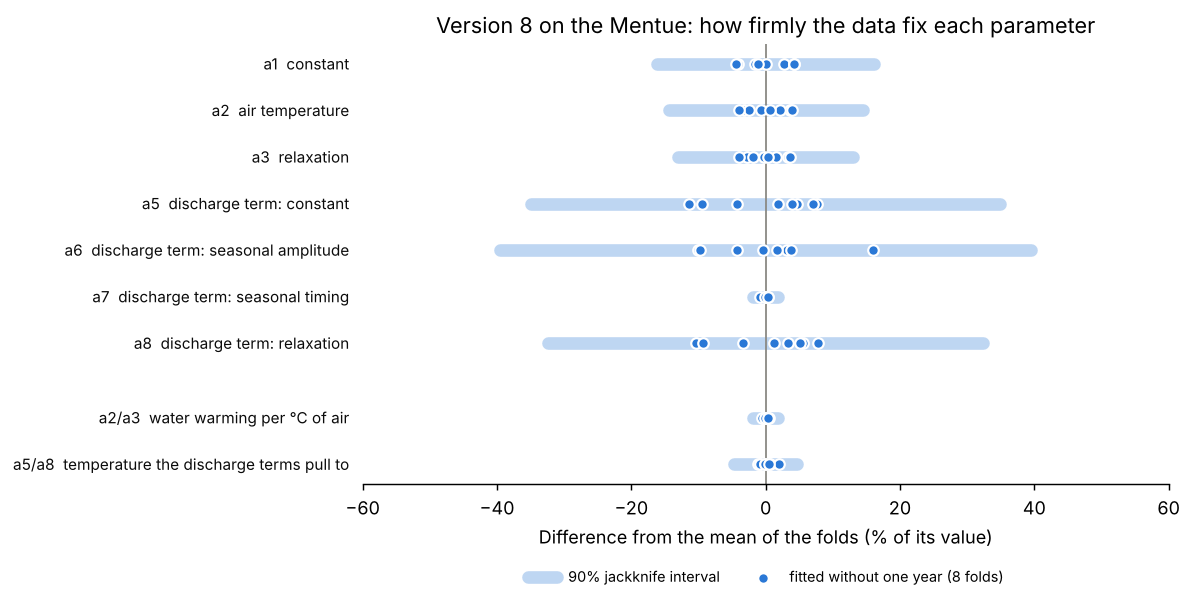
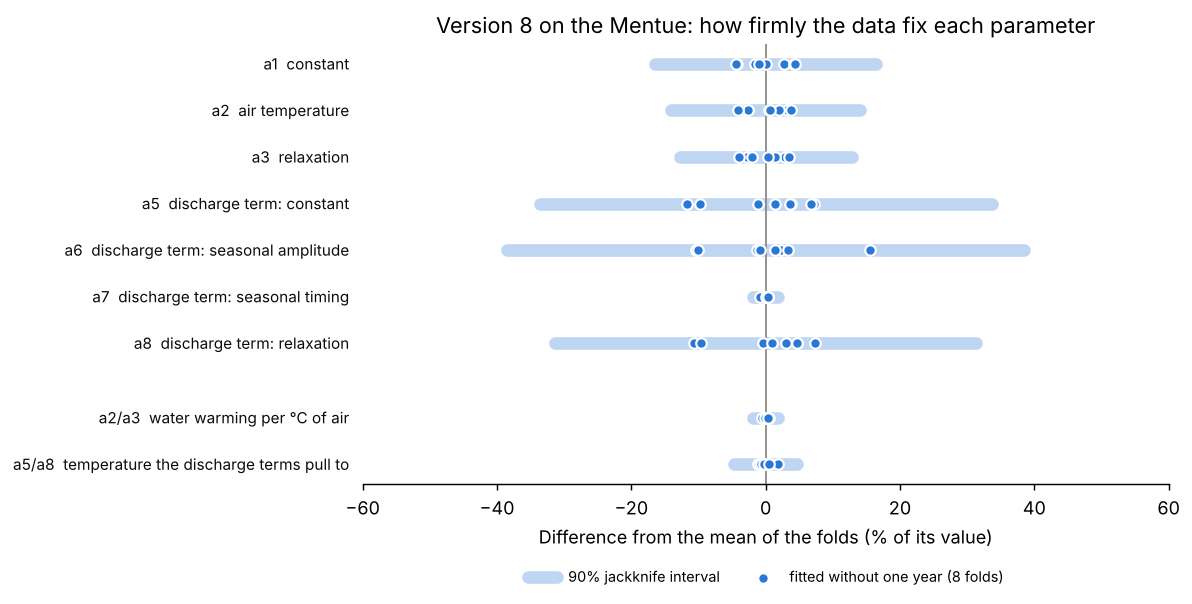
Example 06 rerun on 0.5.1: update figures and the fold parameters
Also the cross-validation console note now quotes the 0.5.1 V4 jackknife
coverage (81-95%).

Claude-Session: https://claude.ai/code/session_011cntwns3xnAFTLc6o2maxn

diff --git a/pyair2stream/main.py b/pyair2stream/main.py
@@ -29,7 +29,7 @@ from .model import (call_model, aggregation, statis, funcobj, detect_segments, w
 JACKKNIFE_NOTE = (
     "The rows jackknife_{level}_lower/upper are approximate {level}% intervals for the parameters "
     "(uncertainty_options.parameter_interval; in validation, 90% intervals contained the true values "
-    "83-95% of the time; validation/REPORT.md, V4). The 'std' row is only the spread between folds: "
+    "81-95% of the time; validation/REPORT.md, V4). The 'std' row is only the spread between folds: "
     "it is far too small to use as an uncertainty."
 )
 

diff --git a/examples/06_cross_validation/README.md b/examples/06_cross_validation/README.md
@@ -107,16 +107,16 @@ the best-fit parameters move when the data change. For version 8:
 
 | Year held out | a1 | a2 | a3 | a4 | a5 | a6 | a7 | a8 |
 |---|---|---|---|---|---|---|---|---|
-| 2002 | 0.912 | 0.634 | 0.750 | 0.107 | 2.288 | 1.545 | 0.601 | 0.241 |
-| 2003 | 0.925 | 0.679 | 0.797 | 0.094 | 2.703 | 1.772 | 0.602 | 0.283 |
-| 2004 | 0.925 | 0.651 | 0.769 | 0.069 | 2.475 | 1.645 | 0.601 | 0.260 |
-| 2005 | 0.888 | 0.681 | 0.800 | 0.061 | 2.686 | 1.748 | 0.601 | 0.278 |
-| 2006 | 0.850 | 0.669 | 0.784 | 0.047 | 2.783 | 1.784 | 0.595 | 0.290 |
-| 2007 | 0.874 | 0.639 | 0.757 | 0.071 | 2.767 | 1.992 | 0.603 | 0.282 |
-| 2008 | 0.877 | 0.629 | 0.741 | 0.078 | 2.340 | 1.550 | 0.601 | 0.244 |
-| 2009 | 0.849 | 0.659 | 0.774 | −0.035 | 2.630 | 1.710 | 0.602 | 0.272 |
-| **mean** | 0.887 | 0.655 | 0.772 | 0.061 | 2.584 | 1.718 | 0.601 | 0.269 |
-| **90% interval** | 0.744–1.031 | 0.561–0.750 | 0.671–0.872 | −0.141–0.264 | 1.682–3.486 | 1.040–2.397 | 0.590–0.612 | 0.182–0.356 |
+| 2002 | 0.912 | 0.635 | 0.750 | 0.107 | 2.288 | 1.545 | 0.601 | 0.241 |
+| 2003 | 0.925 | 0.677 | 0.795 | 0.096 | 2.689 | 1.764 | 0.602 | 0.282 |
+| 2004 | 0.926 | 0.659 | 0.778 | 0.062 | 2.562 | 1.701 | 0.601 | 0.268 |
+| 2005 | 0.888 | 0.681 | 0.800 | 0.061 | 2.685 | 1.747 | 0.601 | 0.278 |
+| 2006 | 0.849 | 0.669 | 0.783 | 0.048 | 2.781 | 1.782 | 0.595 | 0.289 |
+| 2007 | 0.873 | 0.639 | 0.756 | 0.070 | 2.766 | 1.991 | 0.603 | 0.282 |
+| 2008 | 0.878 | 0.629 | 0.742 | 0.078 | 2.340 | 1.550 | 0.601 | 0.244 |
+| 2009 | 0.848 | 0.660 | 0.775 | −0.036 | 2.630 | 1.710 | 0.602 | 0.272 |
+| **mean** | 0.887 | 0.656 | 0.772 | 0.061 | 2.593 | 1.724 | 0.601 | 0.270 |
+| **90% interval** | 0.742–1.033 | 0.564–0.749 | 0.674–0.871 | −0.144–0.265 | 1.720–3.465 | 1.061–2.387 | 0.590–0.612 | 0.185–0.354 |
 
 ![Parameters fitted without each year, and their 90% intervals](figures/parameters_by_fold.png)
 
@@ -136,7 +136,7 @@ the best-fit parameters move when the data change. For version 8:
     stays between 0.845 and 0.854. Its 90% interval is ±2%, against ±13–14% for
     `a2` and `a3` themselves.
   - `a5/a8` is the temperature the discharge terms pull the water towards. It
-    stays between 9.5 and 9.8 °C. Its interval is ±5%, against ±32–35% for
+    stays between 9.5 and 9.8 °C. Its interval is ±5%, against ±31–34% for
     `a5` and `a8`.
 
   The data fix these combinations well. That is why the predictions change so
@@ -158,9 +158,9 @@ years. They are the bands in the figure.
 Keep in mind:
 
 - **They are approximate.** In a test with known parameters, these intervals
-  contained the true values 83–95% of the time, for every model version
+  contained the true values 81–95% of the time, for every model version
   ([validation V4](../../validation/REPORT.md#v4)). The MCMC parameter ranges
-  of example 02 did as well or better in that test (97% for version 5, 93% for
+  of example 02 did as well or better in that test (97% for version 5, 92% for
   version 8).
 - **They describe years like those in the record.** Conditions the record does
   not contain, such as much lower summer flows, can need different values.
